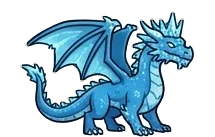
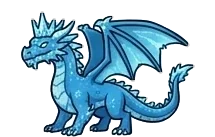
Boss quay mặt về phía cửa (lật 11 ảnh)

diff --git a/index.html b/index.html
@@ -900,7 +900,7 @@ function bedSVG(x, y, sc, l) {
     <text class="zz" x="46" y="4" font-size="13" fill="#fff" font-family="sans-serif">z z</text></g>`;
 }
 const NG_DOOR_MAX = 50, NG_GUN_MAX = 49, NG_BOSS_MAX = 25, NG_MON_MAX = 50;
-const pad2 = n => String(n).padStart(2, '0'), imgTag = (kind, n, x, y, w, h, cls = '') => `<image ${cls ? `class="${cls}" ` : ''}href="img/${kind}/${pad2(n)}.webp" x="${x}" y="${y}" width="${w}" height="${h}" preserveAspectRatio="xMidYMax meet"/>`;
+const pad2 = n => String(n).padStart(2, '0'), imgTag = (kind, n, x, y, w, h, cls = '') => `<image ${cls ? `class="${cls}" ` : ''}href="img/${kind}/${pad2(n)}.webp?v=2" x="${x}" y="${y}" width="${w}" height="${h}" preserveAspectRatio="xMidYMax meet"/>`;
 function doorSVG(x, y, l, hp, hit) {   // ảnh cửa 116×145 (vẽ bằng Flow), vết nứt vẽ đè lên theo máu
   const w = 76, h = 95, X = x - 6, Y = 90; let g = imgTag('door', Math.min(NG_DOOR_MAX, l), X, Y, w, h);
   if (hp < 0.55) g += `<polyline points="${X + 22},${Y + 14} ${X + 32},${Y + 38} ${X + 24},${Y + 56} ${X + 38},${Y + 82}" fill="none" stroke="#111827" stroke-width="2.5" stroke-linecap="round"/>`;
